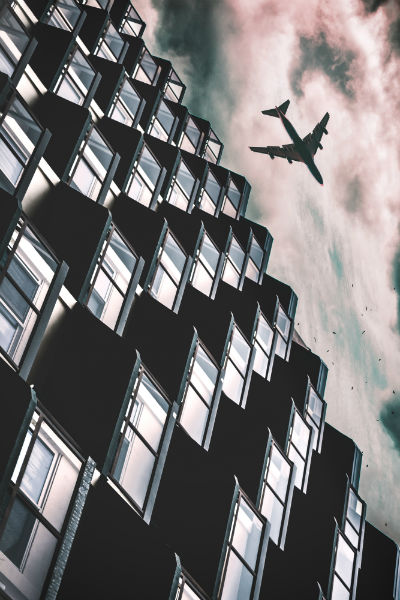
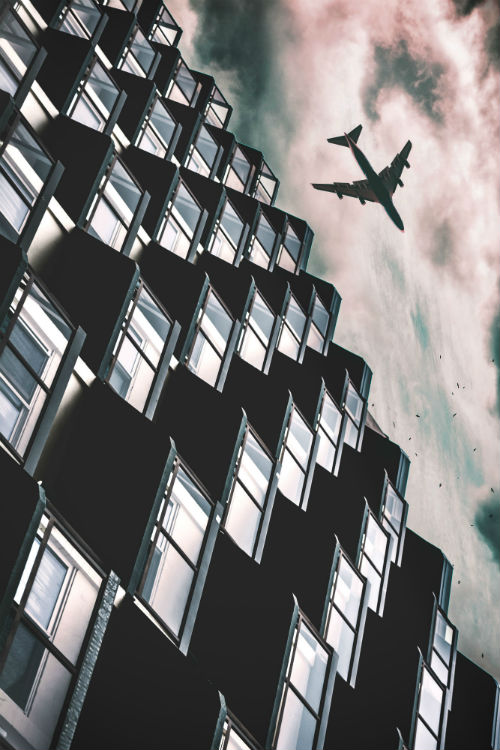
Larger images, mobile gallery 2 columns

diff --git a/docs/css/gallery.scss b/docs/css/gallery.scss
@@ -11,22 +11,33 @@ div .photos {
 	padding-left: $padding-size;
 	padding-right: $padding-size;
 
-	-webkit-column-count: 3;
+	-webkit-column-count: 2;
 	-webkit-column-gap:  $padding-size;
-	-moz-column-count: 3;
+	-moz-column-count: 2;
 	-moz-column-gap:  $padding-size;
-	column-count: 3;
+	column-count: 2;
 	column-gap:  $padding-size;
 }
 
 figure {
-	//max-width: 400px;
 	display: inline;
-	// line-height: 0;
 }
 
 figure img {
 	margin-bottom: $padding-size;
-	max-width: 450px;
+	max-width: 440px;
+	max-height: 400px;
 	height: auto;
+}
+
+@media (min-width: 768px) {
+	div .photos {
+		-webkit-column-count: 3;
+		-moz-column-count: 3;
+		column-count: 3;
+	}
+
+	figure img {
+		max-height: 100%;
+	}
 }
